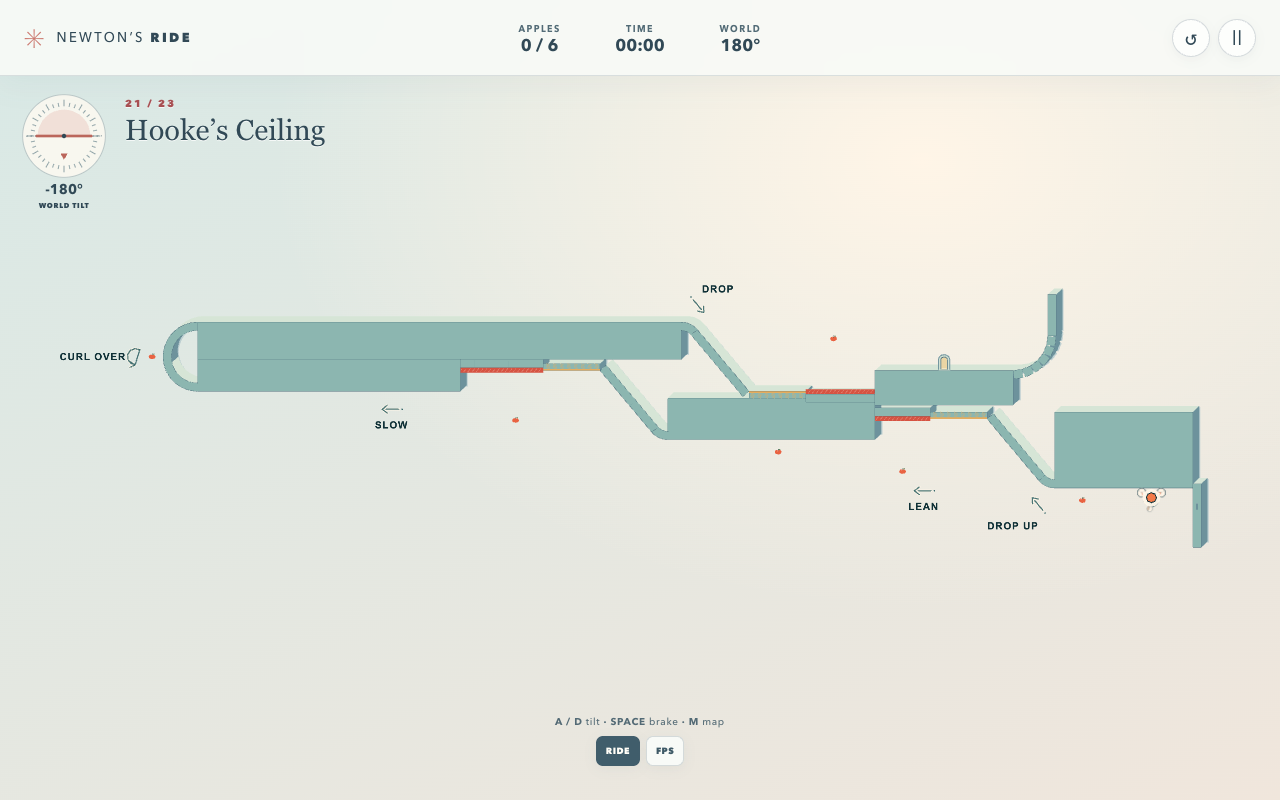
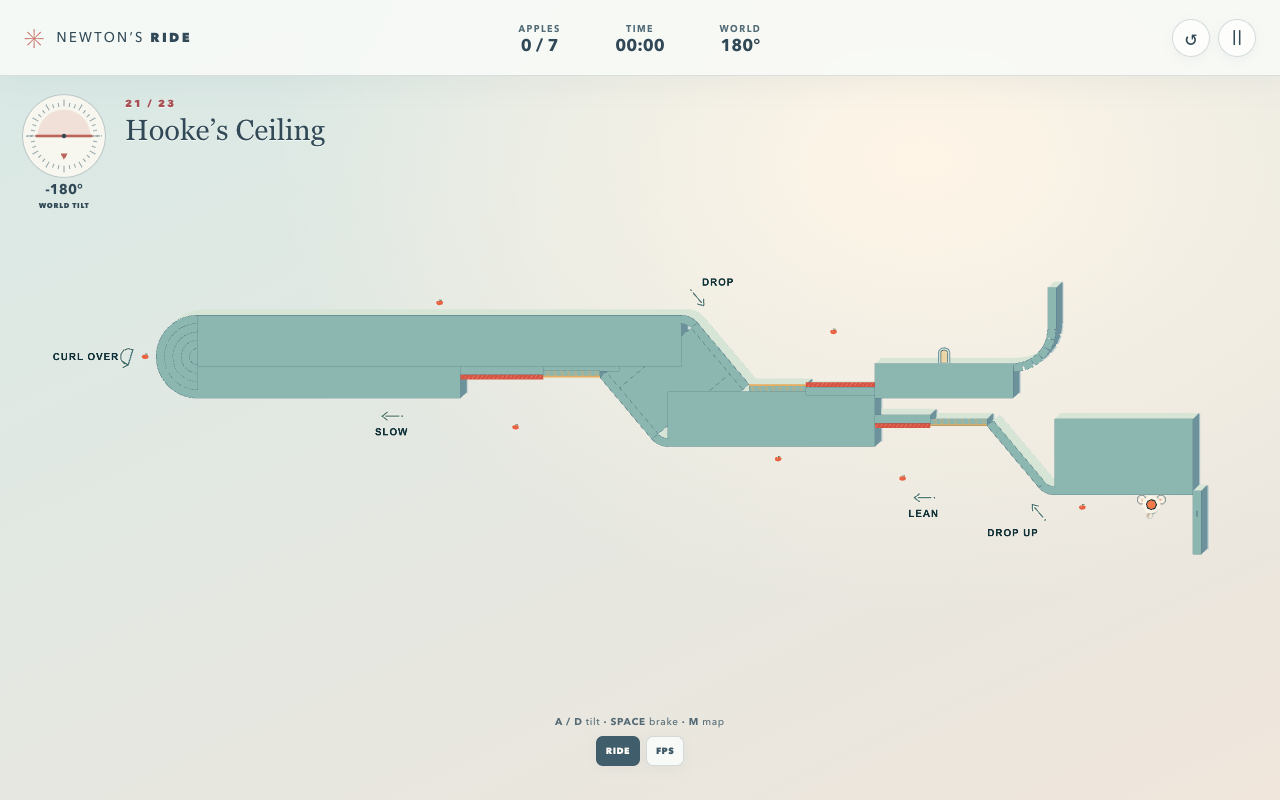
Second audit of Hooke's Ceiling: wider nose, solid slab, residuals
- Nose radius 2.5 -> 3 m (after Huygens' crown widening). At keyboard rate
  it now completes from approaches up to 3.3 m/s (was 2.8) with gravity
  +-.25 rad off the frame's heading. The top half is placed from the top
  face down, so the last throw is unchanged; all three lean windows
  re-measured (.33-.8, .5-.85, .45-1.1).
- Cosmetic filler stone closes the see-through cavity between the parallel
  slides and the hollow inside the nose ribbon (drawn as a coiled spring).
  It is listed first so ridden stone hides its seams. Tests show the ride
  is identical without it and no filler corner reaches a ridden face.
- A seventh apple halfway along the 35 m top face.
- Pilot gains noseSpeed / noseBias; tests pin the nose window and the
  3.6 m/s fly-off.
- docs: nose measurements, geometry table, a Residuals / known issues
  section, a maps-residuals note; maps.md row updated; overview regenerated.

diff --git a/src/levels/hookes-ceiling.ts b/src/levels/hookes-ceiling.ts
@@ -30,7 +30,14 @@ const arc = (id: string, from: Vec, h0: number, h1: number, radius: number, piec
 const chute = (id: string, top: Vec, floor: number, angle: number, knee: number) => {
   const bend = arc(`${id}-knee`, top, 0, -angle, knee);
   const bottom = p(bend.end.x + (bend.end.y - floor) / Math.tan(angle), floor);
-  return { surfaces: [...bend.surfaces, { ...slab(`${id}-slide`, bend.end, bottom), chain: `${id}-knee` }], bottom };
+  return { surfaces: [...bend.surfaces, { ...slab(`${id}-slide`, bend.end, bottom), chain: `${id}-knee` }], bend: bend.end, bottom };
+};
+/** Unridden filler stone behind a straight face running `from` → `to`: `depth` thick, set 5 cm under the
+ *  face, covering the stretch t0..t1 of it. It only closes a see-through cavity in the overview. */
+const backing = (id: string, from: Vec, to: Vec, depth: number, t0 = 0, t1 = 1): Surface => {
+  const angle = Math.atan2(to.y - from.y, to.x - from.x), at = (t: number) =>
+    p(from.x + (to.x - from.x) * t + Math.sin(angle) * .05, from.y + (to.y - from.y) * t - Math.cos(angle) * .05);
+  return slab(id, at(t0), at(t1), depth);
 };
 const spikes = (id: string, x0: number, x1: number, y: number): Surface => ({ id, x: (x0 + x1) / 2, y, w: x1 - x0, h: .35, kind: 'hazard' });
 /** Half a turn about the map origin: (x, y) → (−x, −y). Ridden +y faces end up facing map-down. */
@@ -54,22 +61,24 @@ const fa = (id: string, x: number, y: number): Apple => a(id, -x, -y);
  *     from π (world angle π + a gives the rider's frame gravity g·(sin a, −cos a)),
  *     begun on the slide since the world turns at most .95 rad/s.
  *   - Halfway the second ledge (Y −7, so map y 7; 19 m long to scrub the landing) runs out to a convex rounded
- *     nose, radius 2.5 m, at the slab's far (map-left) end: the underside-return
+ *     nose, radius 3 m, at the slab's far (map-left) end: the underside-return
  *     grammar. Slow down, then turn the world from π back to 0 as the wheels
- *     curl round it onto the slab's top face (map y 12).
+ *     curl round it onto the slab's top face (map y 13).
  *   - Second half, right-way-up in map space: 35 m of top face to a last knee
- *     and slide down into an ordinary floor pad (y 7), a 5 m spike pit and the
- *     door ledge (top 8.5), which ends in a catching quarter-pipe.
+ *     and slide down into an ordinary floor pad (y 8), a 5 m spike pit and the
+ *     door ledge (top 9.5), which ends in a catching quarter-pipe.
  */
 const DEG = Math.PI / 180;
-const SLIDE = 50 * DEG, KNEE = 1.5, NOSE = 2.5;
+const SLIDE = 50 * DEG, KNEE = 1.5, NOSE = 3;
 // The ceiling half, in the rider's turned frame (identical to Hooke's Springboard).
 const plateau = { x0: -4, x1: 6, y: 0 }, ledge1 = { x0: 19, x1: 34, y: -3.5 }, ledge2 = { x0: 49, x1: 68, y: -7 };
 const chute1 = chute('ceiling-chute-1', p(plateau.x1, plateau.y), -5, SLIDE, KNEE);
 const chute2 = chute('ceiling-chute-2', p(ledge1.x1, ledge1.y), -8.5, SLIDE, KNEE);
 // The top half, in map space.
-const top = { x0: -ledge2.x1, x1: -33, y: -ledge2.y + 2 * NOSE }, landing = { x0: -19, x1: -9, y: 8.5 };
-const chute3 = chute('ceiling-chute-3', p(top.x1, top.y), 7, SLIDE, KNEE);
+// The last pit drops 5 m from the top face, as Hooke's pits do, wherever the nose puts that face.
+const top = { x0: -ledge2.x1, x1: -33, y: -ledge2.y + 2 * NOSE }, pit3Floor = top.y - 5;
+const landing = { x0: -19, x1: -9, y: pit3Floor + 1.5 };
+const chute3 = chute('ceiling-chute-3', p(top.x1, top.y), pit3Floor, SLIDE, KNEE);
 const catcher = arc('ceiling-catch', p(landing.x1, landing.y), 0, Math.PI / 2, 2.5);
 export const CEILING = {
   /** Underside half in the rider's turned frame: map point = flip(point). */
@@ -78,17 +87,41 @@ export const CEILING = {
   pit2: { pad: [chute2.bottom, p(43, -8.5)] as const, spikes: [43, ledge2.x0] as const, floor: -8.5 },
   /** Centre of the rounded nose (map space) and the top half. */
   nose: p(top.x0, top.y - NOSE), radius: NOSE, top, landing,
-  pit3: { pad: [chute3.bottom, p(-24, 7)] as const, spikes: [-24, landing.x0] as const, floor: 7 },
-  door: p(-14, 9.3),
+  pit3: { pad: [chute3.bottom, p(-24, pit3Floor)] as const, spikes: [-24, landing.x0] as const, floor: pit3Floor },
+  door: p(-14, landing.y + .8),
 };
 const C = CEILING;
 
-/** The nose as a convex chain from the underside (map y 7) round the left end to the top (map y 12). */
+/** The nose as a convex chain from the underside (map y 7) round the left end to the top (map y 13). */
 const nose = Array.from({ length: 32 }, (_, i): Surface => {
   const theta = 1.5 * Math.PI - (i + .5) * Math.PI / 32, r = NOSE - .3;
   return { id: `ceiling-nose-${i}`, x: C.nose.x + r * Math.cos(theta), y: C.nose.y + r * Math.sin(theta),
     w: 2 * r * Math.tan(Math.PI / 64) + .045, h: .6, angle: theta - Math.PI / 2, chain: 'ceiling-nose' };
 });
+/** Filler stone inside the nose ribbon (the overview showed it hollow): rings of short facets, like the
+ *  ribbon's, out to its inner face, read as a coiled spring cut through. Nothing here reaches the ridden face. */
+const noseCore: Surface[] = [
+  g('ceiling-nose-core', C.nose.x - .3, C.nose.y, .62, 1.2),
+  ...[.9, 1.5, 2.1].flatMap(r => Array.from({ length: 16 }, (_, i): Surface => {
+    const theta = .5 * Math.PI + (i + .5) * Math.PI / 16;
+    return { id: `ceiling-nose-core-${r}-${i}`, x: C.nose.x + r * Math.cos(theta), y: C.nose.y + r * Math.sin(theta),
+      w: 2 * r * Math.tan(Math.PI / 32) + .045, h: .62, angle: theta - Math.PI / 2 };
+  })),
+];
+// Filler stone between ceiling slide 2 and the top half's last slide (parallel 50° faces), drawn first so the
+// ridden stone covers its seams: a backing under each slide and one slab spanning the faces where they overlap.
+const slide2 = [flip(chute2.bottom), flip(chute2.bend)] as const, slide3 = [chute3.bend, chute3.bottom] as const;
+const along = (v: Vec) => v.x * Math.cos(SLIDE) - v.y * Math.sin(SLIDE), across = (v: Vec) => v.x * Math.sin(SLIDE) + v.y * Math.cos(SLIDE);
+const cavity: Surface[] = [
+  turn(backing('ceiling-chute-2-backing', chute2.bend, chute2.bottom, 3)),
+  backing('ceiling-chute-3-backing', ...slide3, 3),
+  backing('ceiling-cavity', ...slide3, across(slide3[0]) - across(slide2[0]) - .1, 0,
+    (along(slide2[1]) - along(slide3[0])) / (along(slide3[1]) - along(slide3[0]))),
+  // Behind ceiling pad 2, up to the slab.
+  block('ceiling-pad-2-cap', -C.pit2.pad[1].x, slide2[0].x + 1.4, -C.pit2.floor + .85, -C.pit2.floor + .45),
+];
+/** Ids of the cosmetic filler stone, which no ride should ever touch. */
+export const CEILING_FILLER = [...noseCore, ...cavity].map(s => s.id);
 
 /** The ceiling half as Hooke's Springboard laid out in the rider's turned frame. */
 const ceiling: Surface[] = [
@@ -113,8 +146,10 @@ export const hookesCeilingLevel: Level = {
   hint: 'You start upside down, riding under the slab: the world is turned over, so the ceiling looks like a floor (the map overview shows it). Drop up onto the brass, lean the world forward in the air and level it to land. Don’t brake on brass. After the second landing lean back and feather the brake: take the nose at walking pace and turn the world back as you curl onto the top.',
   spawn: flip(p(-1, .72)), spawnAngle: Math.PI, initialAngle: Math.PI,
   // Room left of the nose for the CURL OVER label, so the overview shows it whole.
-  bounds: { min: p(-81, -6), max: p(9, 17) },
+  bounds: { min: p(-81, -6), max: p(9, 18) },
   surfaces: [
+    // Cosmetic fillers first: everything drawn after them hides their seams.
+    ...noseCore, ...cavity,
     ...ceiling.map(turn),
     ...nose,
     block('ceiling-slab-top', C.top.x0, C.top.x1, C.top.y, -C.pit2.floor + .8),
@@ -122,7 +157,7 @@ export const hookesCeilingLevel: Level = {
     pad('ceiling-pad-3', ...C.pit3.pad),
     block('ceiling-pit-3-floor', C.pit3.spikes[0], C.pit3.spikes[1], C.pit3.floor - .2, C.pit3.floor - .8),
     spikes('ceiling-spikes-3', C.pit3.spikes[0], C.pit3.spikes[1], C.pit3.floor - .02),
-    block('ceiling-landing', C.landing.x0, C.landing.x1, C.landing.y, 6),
+    block('ceiling-landing', C.landing.x0, C.landing.x1, C.landing.y, C.landing.y - 2.5),
     // A quarter-pipe catches a rider who reaches the door short of an apple.
     ...catcher.surfaces,
     g('ceiling-end-wall', catcher.end.x + .3, catcher.end.y + 1.5, .6, 3),
@@ -133,7 +168,9 @@ export const hookesCeilingLevel: Level = {
     fa('ceiling-ledge', 26, -2.6),
     fa('ceiling-arc-2', 45, -4.9),
     a('ceiling-nose', C.nose.x - NOSE - .8, C.nose.y),
-    a('ceiling-arc-3', -22, 10.8),
+    // Halfway along the long top face: a beat between the curl and the last throw.
+    a('ceiling-top', (C.top.x0 + C.top.x1) / 2, C.top.y + .9),
+    a('ceiling-arc-3', -22, C.top.y - 1.2),
   ],
   routeHints: [
     // Turned frame. SLOW sits just past the second landing: the nose (below) only turns at walking pace.
@@ -151,9 +188,11 @@ export const hookesCeilingLevel: Level = {
  * own pilot in the rider's turned frame (world angle π + its lean). After the
  * second ceiling throw it scrubs speed on ledge 2, then rounds the nose keeping
  * gravity square to the frame. On top it repeats the springboard drill once
- * (`lastLean`) and eases into the door.
+ * (`lastLean`) and eases into the door. `noseSpeed` is the pace it scrubs to
+ * and holds round the nose; `noseBias` makes it lead (+) or lag (−) the frame's
+ * heading by that many radians there, as a less exact rider would.
  */
-export function createHookesCeilingPilot(lean = .6, secondLean = lean, lastLean = lean, cruise = 2.5): (state: Snapshot) => Controls {
+export function createHookesCeilingPilot(lean = .6, secondLean = lean, lastLean = lean, cruise = 2.5, noseSpeed = 1.8, noseBias = 0): (state: Snapshot) => Controls {
   let previous: Vec | undefined, last: Vec | undefined, stage = 0, heading = Math.PI, lastRaw = Math.PI;
   type Pit = { top: { x1: number; y: number }; ledge: { x0: number; y: number }; lean: number };
   const pits: Pit[] = [
@@ -186,12 +225,12 @@ export function createHookesCeilingPilot(lean = .6, secondLean = lean, lastLean 
     if (stage === 2) {
       // Scrub the landing speed on ledge 2, then creep up to the nose.
       if (at.x > C.ledge2.x1 - 1.5) stage = 3;
-      else return steer(clamp((1.8 - vx) * .22, -.6, .3), vx > 2.5 && pitch > -.06);
+      else return steer(clamp((noseSpeed - vx) * .22, -.6, .3), vx > noseSpeed + .7 && pitch > -.06);
     }
     if (stage === 3) {
       // Round the nose: keep gravity square to the frame, with a little lean for speed.
       if (heading < .15 && state.bike.y > C.top.y) { stage = 4; previous = undefined; }
-      else return { tilt: clamp((heading + clamp((1.8 - along) * .22, -.3, .3) - state.worldAngle) * 8, -1, 1), brake: false };
+      else return { tilt: clamp((heading + noseBias + clamp((noseSpeed - along) * .22, -.3, .3) - state.worldAngle) * 8, -1, 1), brake: false };
     }
     if (stage === 4) return drill(final, () => stage++);
     return steer(clamp((2 - vx) * .22, -.6, .3)); // the door completes on contact

diff --git a/tests/hookes-ceiling.test.ts b/tests/hookes-ceiling.test.ts
@@ -1,9 +1,9 @@
 import { expect, it } from 'vitest';
 import { createPhysics } from '../src/physics';
-import { CEILING, createHookesCeilingPilot, hookesCeilingLevel as level } from '../src/levels/hookes-ceiling';
+import { CEILING, CEILING_FILLER, createHookesCeilingPilot, hookesCeilingLevel as level } from '../src/levels/hookes-ceiling';
 import { levels } from '../src/levels';
 import { createReplayPilot } from '../src/dev/replay';
-import type { Controls, Level, Snapshot } from '../src/types';
+import type { Controls, Level, Snapshot, Surface } from '../src/types';
 
 const frameOf = (state: Snapshot) => state.bodies.find(body => body.kind === 'frame')!;
 async function ride(pilot: (state: Snapshot) => Controls, seconds = 50, map: Level = level, watch?: (state: Snapshot) => void) {
@@ -119,4 +119,37 @@ it('without the brass pads (plain stone in their place) the same pilot never lea
 it.each<Controls>([{ tilt: 0, brake: false }, { tilt: 1, brake: false }, { tilt: -1, brake: false }])('is not completed by fixed controls (%o)', async control => {
   const state = await ride(() => control, 30);
   expect(state.status).not.toBe('complete');
+});
+
+// The nose (radius 3 since the second audit) at keyboard rate: the pace and how exactly gravity tracks the frame.
+it.each([1, 3])('rounds the nose at keyboard rate from a %f m/s approach', async speed => {
+  const state = await ride(createHookesCeilingPilot(.6, .6, .6, 2.5, speed), 55);
+  expect(state.status).toBe('complete');
+});
+it.each([-.25, .25])('rounds the nose with gravity %f rad off the frame’s heading', async bias => {
+  const state = await ride(createHookesCeilingPilot(.6, .6, .6, 2.5, 1.8, bias), 55);
+  expect(state.status).toBe('complete');
+});
+it('flies off the top of the nose when taken at a run (3.6 m/s)', async () => {
+  let topSide = false;
+  const state = await ride(createHookesCeilingPilot(.6, .6, .6, 2.5, 3.6), 30, level, s => { if (s.bike.y > CEILING.top.y) topSide = true; });
+  expect(state.status).toBe('crashed');
+  expect(topSide).toBe(true);
+  expect(state.collected).not.toContain('ceiling-arc-3');
+});
+
+it('its filler stone (inside the nose and between the slides) is cosmetic: the ride is the same without it', async () => {
+  expect(CEILING_FILLER.length).toBeGreaterThan(40);
+  const bare: Level = { ...level, surfaces: level.surfaces.filter(s => !CEILING_FILLER.includes(s.id)) };
+  const [full, without] = [await ride(createHookesCeilingPilot(), 50), await ride(createHookesCeilingPilot(), 50, bare)];
+  expect(without.status).toBe('complete');
+  expect(full.elapsed).toBeCloseTo(without.elapsed, 1);
+  // And no filler corner lies on, or within a metre outside, any ridden face.
+  const corners = (s: Surface) => { const c = Math.cos(s.angle ?? 0), n = Math.sin(s.angle ?? 0);
+    return [[-1, -1], [1, -1], [1, 1], [-1, 1]].map(([u, v]) => ({ x: s.x + u * s.w / 2 * c - v * s.h / 2 * n, y: s.y + u * s.w / 2 * n + v * s.h / 2 * c })); };
+  for (const filler of level.surfaces.filter(s => CEILING_FILLER.includes(s.id))) for (const point of corners(filler)) for (const face of bare.surfaces) {
+    const c = Math.cos(face.angle ?? 0), n = Math.sin(face.angle ?? 0), dx = point.x - face.x, dy = point.y - face.y;
+    const along = dx * c + dy * n, out = -dx * n + dy * c - face.h / 2;
+    if (Math.abs(along) <= face.w / 2 + .05) expect(out <= -.03 || out >= 1, `${filler.id} near ${face.id}`).toBe(true);
+  }
 });

diff --git a/docs/hookes-ceiling.md b/docs/hookes-ceiling.md
@@ -27,25 +27,36 @@ The **first half is Hooke’s Springboard, exactly**. It is authored in the ride
 | Ceiling ledge 1 | Underside y 3.5, x −19 … −34; one apple. A slide rises to ceiling pad 2 (y 8.5). |
 | Ceiling pit 2 | Spikes x −43 … −49 (6 m); apple at (−45, 4.9). |
 | Ceiling ledge 2 | Underside y 7, x −49 … −68 (19 m): room to scrub a fast landing before the nose. A SLOW arrow sits 5 m past the landing edge. |
-| Nose | Convex 32-piece chain of radius 2.5 m, centred at (−68, 9.5), like the underside-return nose. It curls from the underside (y 7) round the slab’s left end onto its top face (y 12). Apple at (−71.3, 9.5). |
-| Top face | y 12, x −68 … −33 (35 m), right-way-up in map space. |
-| Floor pit 3 | The same knee and 50° slide drop 5 m to an ordinary floor pad (y 7, to x −24). Spikes x −24 … −19 (5 m); apple at (−22, 10.8). |
-| Door ledge | Top 8.5, x −19 … −9, door at (−14, 9.3). It ends in a catching quarter-pipe and wall. |
+| Nose | Convex 32-piece chain of radius 3 m (2.5 m until the second audit), centred at (−68, 10), like the underside-return nose. It curls from the underside (y 7) round the slab’s left end onto its top face (y 13). Apple at (−71.8, 10). |
+| Top face | y 13, x −68 … −33 (35 m), right-way-up in map space. One apple halfway, at (−50.5, 13.9). |
+| Floor pit 3 | The same knee and 50° slide drop 5 m to an ordinary floor pad (y 8, to x −24). Spikes x −24 … −19 (5 m); apple at (−22, 11.8). |
+| Door ledge | Top 9.5, x −19 … −9, door at (−14, 10.3). It ends in a catching quarter-pipe and wall. |
 
-The top-half pit is cut into the stone over ceiling ledge 1. Ledge 1’s block stops at y 6.5, under pad 3. The slab’s top block (y 9.3 … 12) sits over pad 2 and the ceiling pit 2 floor.
+The top half is placed from the top face down (pit 3 floor = top − 5, door ledge = floor + 1.5), so its throw is the same whatever the nose radius. The top-half pit is cut into the stone over ceiling ledge 1. Ledge 1’s block stops at y 7.5, under pad 3. The slab’s top block (y 9.3 … 13) sits over pad 2 and the ceiling pit 2 floor.
 
-**Rounding the nose.** Gravity must keep pointing into the stone as the wheels curl: π on the underside, π/2 at the left end, 0 on top. The world angle therefore falls by π, which is the circular hint’s `spin: −1`. Taken at the slow speed the hint asks for (about 1.8 m/s), it takes about 4.5 s. The keyboard turns the world at most .95 rad/s, and the wheels’ path round the nose is about π·2.84 m, so the turn can keep up only below about 2.7 m/s. Measured with the pilot’s heading-tracking curl: approach speeds 1 … 2.5 m/s complete and 3 m/s flies off the top of the nose. The world may lag or lead the frame’s heading by about .15 … .25 rad. Turning at a fixed rate from the start of the nose fails at every rate from .5 to .95 rad/s, because gravity swings back toward pit 2 before the wheels reach the vertical. The Other Side behaves the same way.
+**Filler stone.** The overview used to show two see-through holes: the cavity between ceiling slide 2 and the last slide (two parallel 50° faces, x ≈ −38 … −28) and a half-disc inside the nose ribbon. Both are now filled with stone that no ride touches: a backing under each slide, one slab spanning the two faces, a cap behind pad 2, and rings of short facets inside the nose (they read as a coiled spring cut through). They are listed first so the ridden stone draws over their seams. `CEILING_FILLER` lists their ids. A test checks that the ride is the same with them removed and that none of their corners comes within a metre outside a ridden face.
+
+**Rounding the nose.** Gravity must keep pointing into the stone as the wheels curl: π on the underside, π/2 at the left end, 0 on top. The world angle therefore falls by π, which is the circular hint’s `spin: −1`. Taken at the slow speed the hint asks for (about 1.8 m/s), it takes about 5 s. The keyboard turns the world at most .95 rad/s, and the wheels’ path round the nose is about π·3.34 m, so the turn can keep up only below about 3.2 m/s.
+
+The nose was the map’s real difficulty spike, so the second audit widened it from 2.5 to 3 m, following the widening of Huygens’ crown. Measured with the pilot’s heading-tracking curl at keyboard rate (`noseSpeed`, `noseBias`):
+
+| Nose radius | Approach speeds that complete | First failure | Gravity offset from the frame’s heading that completes |
+| --- | --- | --- | --- |
+| 2.5 m | 1 … 2.8 m/s | 3 m/s flies off the top and crashes on the top face | −.3 … +.2 rad |
+| 3 m | 1 … 3.3 m/s | 3.6 m/s, same failure | −.25 … +.25 rad (−.3 still riding, too slowly, at 55 s) |
+
+So the wider nose forgives about half a metre per second more pace, and the same .5 rad width of tracking error. Lagging by .4 rad or more lets the bike roll back off the nose into pit 2 at either radius. Turning at a fixed rate from the start of the nose fails, because gravity swings back toward pit 2 before the wheels reach the vertical. The Other Side behaves the same way.
 
 ## Demonstration
 
-`createHookesCeilingPilot(lean = .6, secondLean = lean, lastLean = lean, cruise = 2.5)` reads only the snapshot and outputs tilt and brake.
+`createHookesCeilingPilot(lean = .6, secondLean = lean, lastLean = lean, cruise = 2.5, noseSpeed = 1.8, noseBias = 0)` reads only the snapshot and outputs tilt and brake.
 
 1. Over the ceiling it runs Hooke’s pilot logic in the turned frame, with positions, pitch and world angle measured relative to π.
-2. On ledge 2 it leans back and feathers the brake to about 1.8 m/s.
-3. At the nose it keeps the world angle equal to the frame’s unwrapped heading, plus a small speed-keeping lean.
+2. On ledge 2 it leans back and feathers the brake to `noseSpeed`.
+3. At the nose it keeps the world angle equal to the frame’s unwrapped heading (plus `noseBias`), plus a small speed-keeping lean.
 4. On top it repeats the springboard drill once with `lastLean`.
 
-It completes with all 6 apples in about 39 s, over about 125 m.
+It completes with all 7 apples in about 40 s, over about 141 m (rendered e2e trace).
 
 Measured with the other leans held at .6:
 
@@ -59,8 +70,9 @@ Measured with the other leans held at .6:
 | .5 … .8 | Completes | Completes | Completes |
 | .85 | Crashes later, while scrubbing on ledge 2 | Completes | Completes |
 | .9 | Crashes later, on ledge 2 | Crashes later, on the top face | Completes |
+| 1 … 1.1 | Crashes later, at pit 2 | 1: crashes on the top face; 1.1: reaches the door short of an apple | Completes |
 
-So the windows are about .33 … .8 for jump 1, .5 … .85 for jump 2 and .45 … 1 for the last jump.
+So the windows are about .33 … .8 for jump 1, .5 … .85 for jump 2 and .45 … 1.1 for the last jump. They are the same with the 2.5 m nose, except that a .85 second lean then reached the nose fast (4 m/s) and only just survived; with the 3 m nose it rounds it at 2 m/s. Cruise speeds 1.5 … 4 m/s all complete.
 
 The ceiling half is an exact mirror of Hooke’s Springboard: lean 0 crashes at (−17.61, 3.76) here and at (17.61, −3.76) there.
 
@@ -72,11 +84,21 @@ Ledge 2 was lengthened from 15 to 19 m. At 15 m, a .8 second lean arrived at the
 - **Inverted spawn:** the world is at π and the frame is turned over. The bike rests .72 m under the ceiling. The same spawn with `spawnAngle: 0` crashes.
 - **Full replay:** collects every apple with exactly three pad throws. The world leans past π + .45 and returns below .1. The bike reaches the top face. The run is also driven through `createReplayPilot` at the map’s campaign index.
 - **Negative tests:** with no lean, each of the three throws drops into its spike pit. The same run over harmless spikes (made stone) is still riding, so the spikes are what kill. Short throws (.3 on pit 1, .35 and .45 on pit 2, .3 on pit 3) clear the spikes, but the head strikes the far ledge’s lip. They crash at the same point with the spikes made stone. Fixed tilt −1, 0 and +1 never complete.
-- **Tolerance:** the first jump completes at .35, .55 and .8.
+- **Tolerance:** the first jump completes at .35, .55 and .8. The nose completes from 1 and 3 m/s approaches and with gravity .25 rad behind or ahead of the frame; at 3.6 m/s the rider flies off it.
+- **Filler:** the ride is unchanged with the filler stone removed, and no filler corner sits on the ridden side of any face.
 - **Counterfactual:** with all three pads turned into plain stone, the same pilot never gets out of ceiling pit 1.
 - **Rendered:** `e2e/expansion.spec.ts` drives the replay through the real game page and saves `docs/evidence/hookes-ceiling-overview.png`.
 
-## Known limits
+## Residuals / known issues
 
-- **Not on a real phone.** The route has not been tuned on a real phone. Rounding the nose from π to 0 is a long continuous turn, the same as The Other Side.
+What remains after two audits:
+
+- **Not played on a real phone.** All numbers come from the scripted pilot at keyboard rate (.95 rad/s). Nobody has ridden the route on hardware.
+- **Phone versus keyboard at the nose.** On a phone the world angle follows the bank directly, so the nose has no rate limit: a phone rider can round it faster than 3.3 m/s, if they can track the heading. A keyboard rider is limited by the turn rate and must arrive slowly. So the nose is harder on keys than on a phone. Only the keyboard path is measured.
+- **The phone must turn 180° and back.** The map starts at world π. On a phone that means starting with the device turned half over, or recalibrating at a turned pose. Then the nose asks for a continuous half turn back to 0, as The Other Side does, which is a large bank change on the phone curve (README). Whether players manage it comfortably, and whether they need to recalibrate on the top face, is untested.
+- **The nose is still the spike.** Widening it to 3 m helps (up to 3.3 m/s, ±.25 rad), but it is still the hardest moment on the map. It needs a slow, continuous, heading-tracking turn, unlike the throws that come before it. The SLOW arrow and the hint say so. Whether that is enough for slot 14.6 needs real players.
+- **The first half looks like Hooke’s Springboard.** The camera turns with the world, so for the first ~50 m the screen shows Hooke’s Springboard, and the inversion is visible only on the HUD dial (180°), the DROP UP label and the overview. This is deliberate: the throws carry Hooke’s measured margins exactly. It was left as is, because changing the apple rhythm or the geometry would break the exact-mirror property the tests rely on. The new parts are the nose and the top half.
+- **Top-face pacing.** The 35 m top face has only one beat, the apple halfway along. A terrain change there was not added, so the final throw’s approach stays as measured.
+- **Cosmetic seams.** The filler stone leaves a few faint joints in the overview. Tiny gaps at the convex knees (the same as on Hooke’s Springboard) remain.
 - **Turned screen direction.** While the world is at π, map −x is screen-right, so the whole ride reads left to right on screen. After the nose, the rider also travels screen-right.
+- **Saves.** Inserting the map at index 20 shifts the later maps by one in an existing save (see maps.md).

diff --git a/docs/maps.md b/docs/maps.md
@@ -22,7 +22,7 @@ This replaces the short original routes. Coordinates are metres, positive y up. 
 | Switchback Scaffold | Wall climb, free-air somersault, wheels-on-top landing, upper-storey return. | 6 | 182 m / 108 s |
 | The Hidden Way Home | Two opposing wall jumps, final wall apple, inverted ascent to a hidden ledge, original door. | 6 | about 387 m / 132 s |
 | Hooke’s Springboard | Spring pads: slide into a brass pad, lean gravity forward in the throw to clear a spike pit, scrub the landing speed, then repeat over a wider pit to the door. The first throw forgives any lean from ≈ .35 to .8 rad; the second needs ≥ .5. See [hookes-springboard.md](hookes-springboard.md). | 4 | 59 m / 12 s |
-| Hooke’s Ceiling | The sequel, upside down: start under a long slab with the world turned over (gravity map-up), ride Hooke’s two pads and pits as ceiling pads, leaning the world forward from π in each throw, scrub speed, curl round the slab’s rounded nose (world back from π to 0) onto its top face, and finish right-way-up with one ordinary floor throw over a 5 m spike pit to the door. See [hookes-ceiling.md](hookes-ceiling.md). | 6 | about 125 m / 39 s |
+| Hooke’s Ceiling | The sequel, upside down: start under a long slab with the world turned over (gravity map-up), ride Hooke’s two pads and pits as ceiling pads, leaning the world forward from π in each throw, scrub speed, curl round the slab’s rounded nose (world back from π to 0) onto its top face, and finish right-way-up with one ordinary floor throw over a 5 m spike pit to the door. See [hookes-ceiling.md](hookes-ceiling.md). | 7 | about 141 m / 40 s |
 | The Piston Works | Self-running lifts (pairs of tyre-wide pistons on their own periods): board lift A as it rests low, ride up, drop through a half-pipe, ride B1 up and cross to B2 only as their tops meet, then ride lift C down its shaft for a mandatory apple and back up to the door. | 5 | 72 m / 63 s |
 | Stairway to Heaven | Four giant steps: turn onto each vertical riser, ease over each crest, collect the summit apple, and descend home. | 8 | 197 m / 160 s |
 

diff --git a/docs/maps-residuals.md b/docs/maps-residuals.md
@@ -11,3 +11,4 @@ Remaining design work:
 - Escher is a readable planar spiral through four gravity faces, with a shared ceiling/floor and an inner reversal. It has no impossible topology or portal transition.
 - Long controlled replay times are not minimum completion times. More human playtesting is needed to tune difficulty and discover shortcuts.
 - Physical phone comfort, orientation changes and sustained frame pacing still need hardware validation.
+- Hooke’s Ceiling is the first map to start with the world turned over (`initialAngle` and `spawnAngle` π). On a phone that means starting half turned or recalibrating. Its nose (radius 3 m) is keyboard-rate limited to about 3.3 m/s, but a phone has no rate limit, so the map plays differently on the two inputs. See [hookes-ceiling.md](hookes-ceiling.md#residuals--known-issues).
